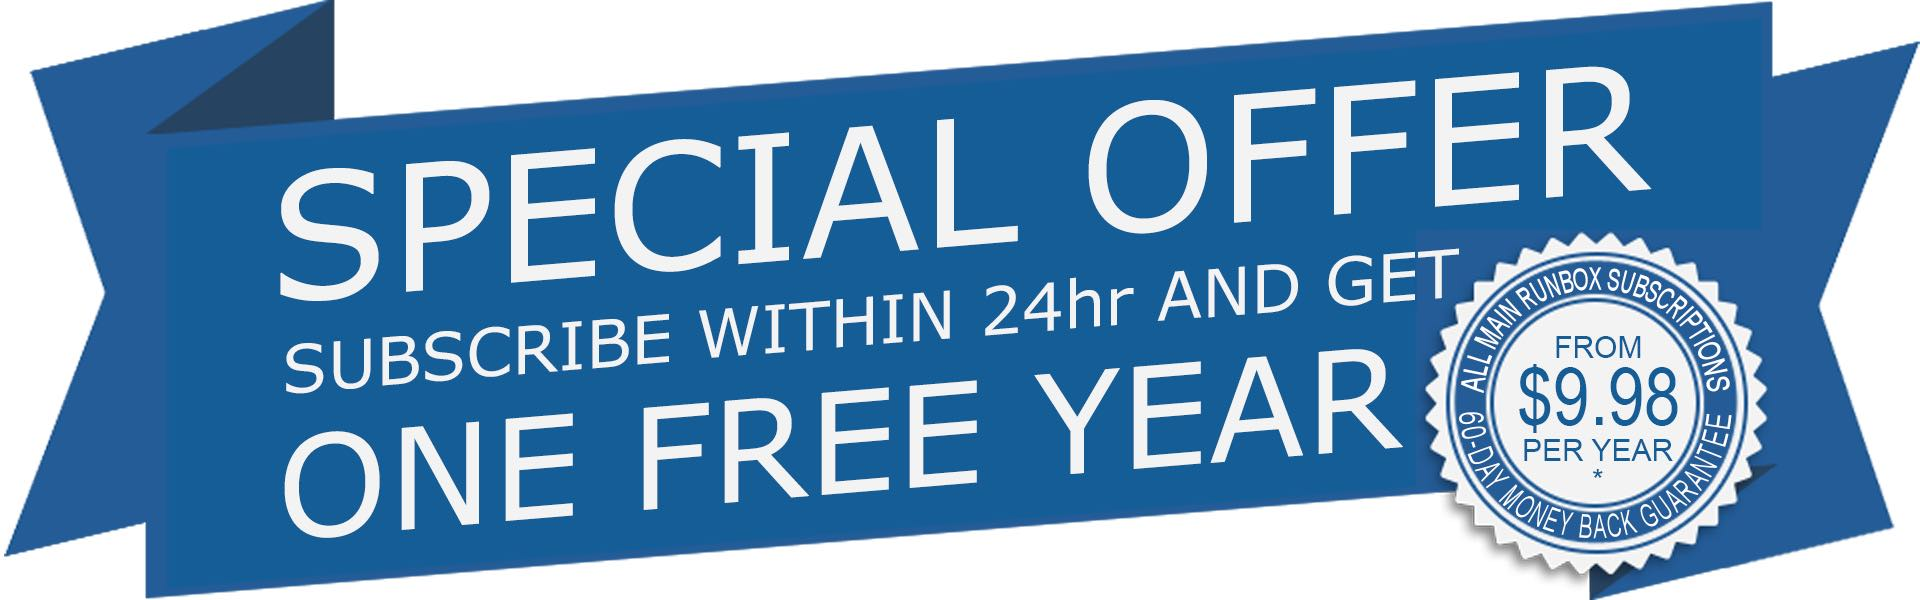
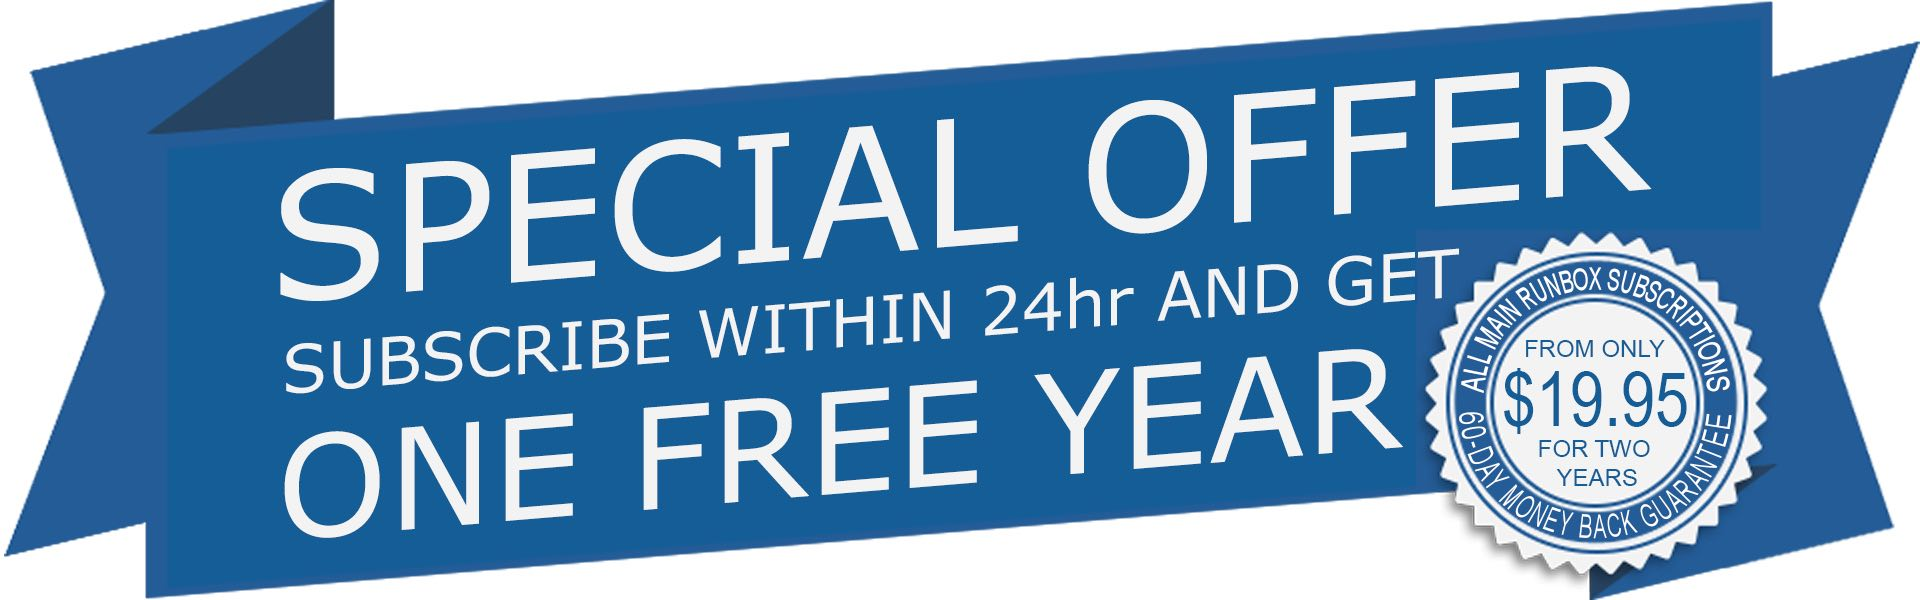
style(payment): Clarify offer in graphic and text.

Changed region(s): [[0.7812, 0.54, 0.9062, 0.81]]

diff --git a/src/app/welcome/welcomedesk.component.html b/src/app/welcome/welcomedesk.component.html
@@ -5,12 +5,10 @@
       <h2>Congratulations -- your new Runbox account is ready!</h2>
       <br />
       <a routerLink="/account/plans">
-        <img src="assets/intro-special-banner-2023.jpg" id="introSpecialOfferBanner" alt="Special Offer: Get a full year added to your main subscription for free"/>
+        <img src="/assets/intro-special-banner-2023.jpg" id="introSpecialOfferBanner" alt="Special Offer: Get a full year added to your main subscription for free"/>
       </a>
       <p>
-        * The price shown is the subscription fee for a Micro account for the first 2 years when taking advantage of the offer.<br />
-        This offer is valid for all main account plans within 24 hours of signing up, in addition to any other current offers.<br />
-        All initial subscription payments include a 60-day money baack guarantee.
+        The price shown is the subscription fee for a Micro account for the first 2 years when taking advantage of the offer. This offer is valid for all main account plans within 24 hours of signing up, in addition to any other current offers. All initial subscription payments include a 60-day money back guarantee.
       </p>
       <h2><a routerLink="/account/plans">Continue to Account Plans Now</a></h2>
       <br />
@@ -20,9 +18,8 @@
           <mat-icon svgIcon="lightbulb"></mat-icon>
         </div>
         <div>
-          <h4>Remember to validate your alternative email address by clicking the link in the email we sent.<br />
-            Note that your account will start receiving email within 15 minutes, once the account details have registered across our systems.
-          </h4>
+          <p>Note that your account will start receiving email within 15 minutes, once the account details have registered across our systems. In order to send email from your new account, please first validate your alternative email address by clicking the link in the email we sent there.            
+          </p>
         </div>
       </div>
     </div>
